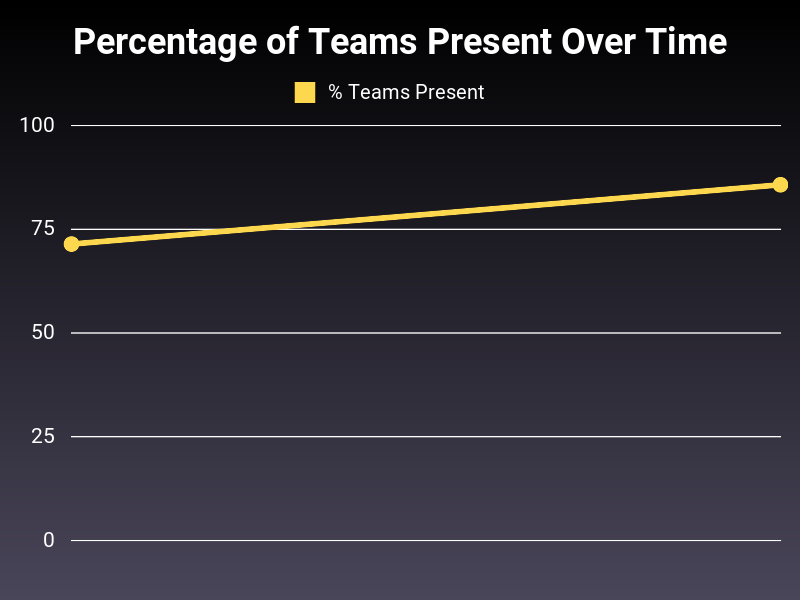
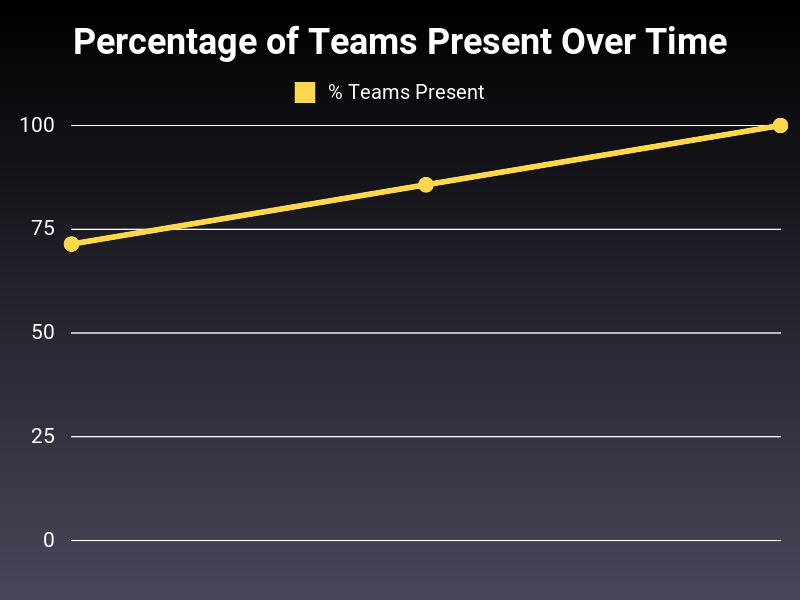
add this week's meeting

Changed region(s): [[0.0938, 0.18, 1.0, 0.42]]

diff --git a/team_slack_reports.md b/team_slack_reports.md
@@ -8,6 +8,18 @@ This page is generated by slack_meeting_stats.rb, do not edit manually
 ![Attendance](images/attendance.png)
 
 ![Build Status Reports](images/build_status.png)
+## 2025-03-13
+
+| Team | Present | Current work | Build Status | If builds broken, points to work to fix it | Extra |
+| --- | ---- | --- | --- | --- | --- |
+| Automate | ✅ | ✅ | ❌ | - | - |
+| Chef Client | ✅ | ✅ | main:❌, 18:❌ | ✅ | listed merged PRs |
+| Chef Server | ✅ | ✅ | ❌ | - | - |
+| Chef Workstation | ✅ | ✅ | ❌ | - | - |
+| Courier | ✅ | ✅ | ❌ | - | - |
+| Habitat | ✅ | ✅ | main:✅ | - | - |
+| Inspec | ✅ | ✅ | ❌ | - | - |
+
 ## 2025-03-06
 
 | Team | Present | Current work | Build Status | If builds broken, points to work to fix it | Extra |
